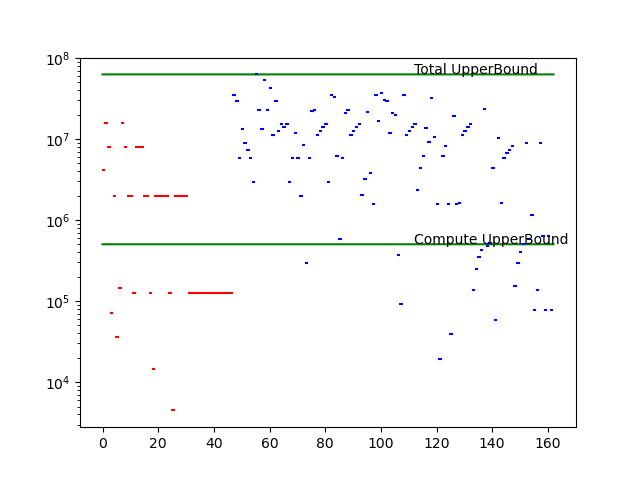
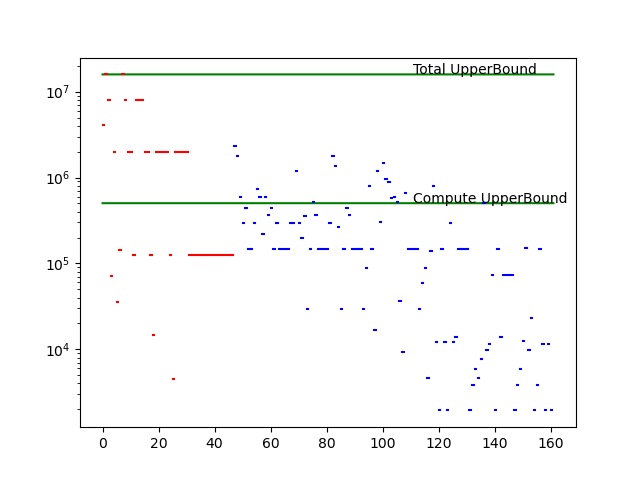
consider the impact of packet communication, and detialed the communication behaviour

diff --git a/mnsim_noc/Router/time_slice_router.py b/mnsim_noc/Router/time_slice_router.py
@@ -14,13 +14,15 @@ from mnsim_noc.Router import BaseRouter
 class TimeSliceRouter(BaseRouter):
     NAME = "time_slice_tile"
 
-    def __init__(self, time_slice):
+    def __init__(self, time_slice, packet_delay):
         super().__init__()
         self.wire_state = None
         self.paths = []
         self.refused = []
         # time_slice: span of a time_slice (ns)
         self.time_slice = time_slice
+        # packet_delay: num of time slice needed for a packet to transfer through a wire
+        self.packet_delay = packet_delay
 
     def assign(self, transfer_data, wire_state, tile_state, clock_num):
         """
@@ -54,7 +56,7 @@ class TimeSliceRouter(BaseRouter):
             end_tile_position = list(map(int, re.findall(r"\d+", tile_data[2])))
             step_x = end_tile_position[0]-start_tile_position[0]
             step_y = end_tile_position[1]-start_tile_position[1]
-            length = round(tile_data[3]*(abs(step_x)+abs(step_y)))
+            length = round(tile_data[3])
             data = tile_data[0:3]+(length,tile_data[4])
             # North:0; West:1; South:2; East:3;
             direction_x = 2 if step_x > 0 else 0
@@ -67,16 +69,18 @@ class TimeSliceRouter(BaseRouter):
                 current_position = start_tile_position
                 path_failed = False
                 backtime_tmp = 0
+                wait_time_tmp = 0
                 # go i steps in x
                 for j in range(1, i+1):
                     current_wire_id = "{}_{}_{}".format(current_position[0], current_position[1], direction_x)
-                    backtime_tmp = max(backtime_tmp, self.wire_state[current_wire_id])
-                    if self.wire_state[current_wire_id] == 0:
+                    backtime_tmp = max(backtime_tmp, self.wire_state[current_wire_id][1], self.wire_state[current_wire_id][2]-wait_time_tmp)
+                    if self.wire_state[current_wire_id][2] <= wait_time_tmp and self.wire_state[current_wire_id][0]:
                         current_path.append(current_wire_id)
                         current_position[0] += 1
                     else:
                         path_failed = True
                         break
+                    wait_time_tmp += self.packet_delay
                 if path_failed:
                     current_path.clear()
                     backtime = min(backtime, backtime_tmp)
@@ -84,13 +88,14 @@ class TimeSliceRouter(BaseRouter):
                 # go in y
                 for j in range(1, abs(step_y)+1):
                     current_wire_id = "{}_{}_{}".format(current_position[0], current_position[1], direction_y)
-                    backtime_tmp = max(backtime_tmp, self.wire_state[current_wire_id])
-                    if self.wire_state[current_wire_id] == 0:
+                    backtime_tmp = max(backtime_tmp, self.wire_state[current_wire_id][1], self.wire_state[current_wire_id][2]-wait_time_tmp)
+                    if self.wire_state[current_wire_id][2] <= wait_time_tmp and self.wire_state[current_wire_id][0]:
                         current_path.append(current_wire_id)
                         current_position[1] += 1
                     else:
                         path_failed = True
                         break
+                    wait_time_tmp += self.packet_delay
                 if path_failed:
                     current_path.clear()
                     backtime = min(backtime, backtime_tmp)
@@ -98,13 +103,14 @@ class TimeSliceRouter(BaseRouter):
                 # go abs(step_x)-i steps in x
                 for j in range(1, abs(step_x)-i+1):
                     current_wire_id = "{}_{}_{}".format(current_position[0], current_position[1], direction_x)
-                    backtime_tmp = max(backtime_tmp, self.wire_state[current_wire_id])
-                    if self.wire_state[current_wire_id] == 0:
+                    backtime_tmp = max(backtime_tmp, self.wire_state[current_wire_id][1], self.wire_state[current_wire_id][2]-wait_time_tmp)
+                    if self.wire_state[current_wire_id][2] <= wait_time_tmp and self.wire_state[current_wire_id][0]:
                         current_path.append(current_wire_id)
                         current_position[0] += 1
                     else:
                         path_failed = True
                         break
+                    wait_time_tmp += self.packet_delay
                 if path_failed:
                     current_path.clear()
                     backtime = min(backtime, backtime_tmp)
@@ -115,8 +121,8 @@ class TimeSliceRouter(BaseRouter):
                 # log the transfer layer and time(ns)
                 self.logger.info('(Transfer) layer:'+str(data[4])+' start:'+str(clock_num*self.time_slice)+' finish:'+str((clock_num+data[3])*self.time_slice))
                 for path_wire_id in current_path:
-                    self.wire_state[path_wire_id] = 1
+                    self.wire_state[path_wire_id] = (False, self.wire_state[path_wire_id][1], self.wire_state[path_wire_id][2])
             else:
-                self.refused.append((start_tile_id, int(backtime)))
+                self.refused.append((start_tile_id, round(backtime)))
                 self.logger.info('(Wire Occupied) layer:'+str(data[4])+' time:'+str(clock_num*self.time_slice)+' start_tile:'+str(start_tile_id)+' end_tile:'+str(data[2]))
         return self.paths, self.refused

diff --git a/mnsim_noc/Array/time_slice_array.py b/mnsim_noc/Array/time_slice_array.py
@@ -30,7 +30,7 @@ class TimeSliceArray(BaseArray):
     time_slice: span of a time_slice (ns)
     sim_config_path: hardware description
     '''
-    def __init__(self, tcg_mapping, time_slice, sim_config_path, inter_tile_bandwidth, tile_cache_size):
+    def __init__(self, tcg_mapping, time_slice, sim_config_path, inter_tile_bandwidth, tile_cache_size, packet_size):
         super().__init__(tcg_mapping)
         # span of timeslice: ns
         self.time_slice = time_slice
@@ -52,6 +52,7 @@ class TimeSliceArray(BaseArray):
         self.total_computing_power = 0
         self.total_data_size = 0
         self.tile_cache_size = tile_cache_size
+        self.packet_delay = round(float(packet_size) * 8 / self.bandwidth / self.time_slice)
 
     def task_assignment(self):
         # save the data length from previous layer
@@ -195,7 +196,7 @@ class TimeSliceArray(BaseArray):
                     wire = TimeSliceWire((i, j, 3))
                     self.wire_dict[wire.wire_id] = wire
         # allocate the router
-        self.router = TimeSliceRouter(self.time_slice)
+        self.router = TimeSliceRouter(self.time_slice, self.packet_delay)
         # distribute inputs for tiles in layer_0
         inputs_inits = []
         if self.layer_cfg[0]['type'] == 'conv' or self.layer_cfg[0]['type'] == 'pooling':
@@ -230,7 +231,7 @@ class TimeSliceArray(BaseArray):
             for index, wire_id in enumerate(wire_list):
                 is_first = (index == 0)
                 is_last = (index == wire_len - 1)
-                self.wire_dict[wire_id].set_wire_task(path_data + (is_first, is_last))
+                self.wire_dict[wire_id].set_wire_task(path_data + (is_first, is_last), index * self.packet_delay)
         for refused in routing_result[1]:
             self.tile_dict[refused[0]].set_back_time(refused[1])
 
@@ -258,6 +259,8 @@ class TimeSliceArray(BaseArray):
         for wire_id, wire in self.wire_dict.items():
             if wire.data:
                 tmp_timeslice_num = min(max(1,wire.state), tmp_timeslice_num)
+            if wire.next_data:
+                tmp_timeslice_num = min(max(1,wire.wait_time), tmp_timeslice_num)
         return tmp_timeslice_num
 
     def get_roofline(self):
@@ -331,7 +334,7 @@ class TimeSliceArray(BaseArray):
             # 4, get all wire state
             wire_state = dict()
             for wire_id, wire in self.wire_dict.items():
-                wire_state[wire_id] = wire.state
+                wire_state[wire_id] = (wire.next_data==None,)+wire.get_wait_time()
             # 5, routing
             # path format: (list[occupied_wire_id], (x, y, end_tile_id, length, layer_out))
             routing_result = self.router.assign(transfer_data, wire_state, tile_state, self.clock_num)

diff --git a/mnsim_noc/Wire/time_slice_wire.py b/mnsim_noc/Wire/time_slice_wire.py
@@ -22,13 +22,27 @@ class TimeSliceWire(BaseWire):
         self.state = 0
         # data transferred during simulation
         self.transferred_data = 0
+        # the date to be transferred
+        self.next_data = None
+        # wait time to apply next data
+        self.wait_time = 0
 
-    def set_wire_task(self, wire_tasks):
+    def set_wire_task(self, wire_tasks, wait_time):
         # Format:(x, y, end_tile_id, length, layer, is_first, is_last)
-        self.state = wire_tasks[3]
+        self.wait_time = wait_time
         # data Format:(x, y, end_tile_id, layer, is_first, is_last)
-        self.data = wire_tasks[0:3] + wire_tasks[4:7]
+        self.next_data = wire_tasks
         self.transferred_data += wire_tasks[3]
+        # if self.data and self.next_data and self.state > self.wait_time:
+        #     self.logger.warn("(Wrong wire behaviour) state:"+str(self.state)+' wait_time:'+str(self.wait_time))
+        #     exit()
+        # else:
+        #     self.logger.info("(Wire task set) state:"+str(self.state)+' wait_time:'+str(self.wait_time))
+        if self.wait_time == 0 and self.next_data and not self.data:
+            self.state = self.next_data[3]
+            self.data = self.next_data[0:3] + self.next_data[4:7]
+            self.next_data = None
+            self.wait_time = 0
 
     def update_time_slice(self, n):
         if self.state > 0:
@@ -37,7 +51,20 @@ class TimeSliceWire(BaseWire):
             # return data to update tile
             tmp_data = self.data
             self.data = None
-            return tmp_data
+        else: 
+            tmp_data = None
+        if self.wait_time > 0:
+            self.wait_time -= n
+        if self.wait_time == 0 and self.next_data and not self.data:
+            self.state = self.next_data[3]
+            self.data = self.next_data[0:3] + self.next_data[4:7]
+            self.next_data = None
+            self.wait_time = 0
+        return tmp_data
 
     def get_roofline(self):
         return round(self.transferred_data)
+
+    def get_wait_time(self):
+        # get the end time of occupation
+        return self.wait_time, self.state

diff --git a/mnsim_noc/main.py b/mnsim_noc/main.py
@@ -48,7 +48,8 @@ def main():
 @click.option("--time_slice_span", "-TSS", default=1, help='span of the timeslice in simulation (ns), default: 1')
 @click.option("--inter_tile_bandwidth", "-ITB", default=20, help='inter_tile_bandwidth (Gbps), default: 20')
 @click.option("--tile_cache_size", "-TCS", default=64, help='tile_cache_size (KB), default: 64')
-def time_slice(quiet, nn, hardware_description, weights, device, time_slice_span, inter_tile_bandwidth, tile_cache_size):
+@click.option("--packet_size", "-PKS", default=10, help='packet size(B), default: 10')
+def time_slice(quiet, nn, hardware_description, weights, device, time_slice_span, inter_tile_bandwidth, tile_cache_size, packet_size):
     # load cfg
     # with open(cfg_file, "r") as f:
     #     cfg = yaml.safe_load(f)
@@ -57,6 +58,6 @@ def time_slice(quiet, nn, hardware_description, weights, device, time_slice_span
     structure_file = __TestInterface.get_structure()
     TCG_mapping = TCG(structure_file, hardware_description, False)
     print('start NoC simulation')
-    array = TimeSliceArray(TCG_mapping, time_slice_span, hardware_description, inter_tile_bandwidth, tile_cache_size)
+    array = TimeSliceArray(TCG_mapping, time_slice_span, hardware_description, inter_tile_bandwidth, tile_cache_size, packet_size)
     # run the sim
     array.run()

diff --git a/mnsim_noc/Wire/base_wire.py b/mnsim_noc/Wire/base_wire.py
@@ -15,6 +15,7 @@ class BaseWire(Component):
     REGISTRY = "wire"
 
     def __init__(self, position):
+        super().__init__()
         self.position = position
         self.wire_id = BaseWire.get_wire_id(position)
 
